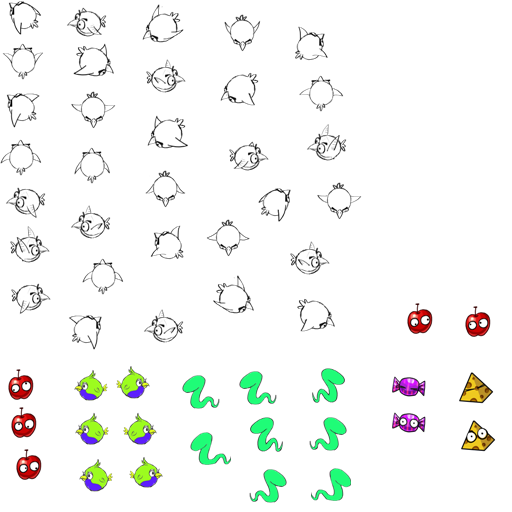
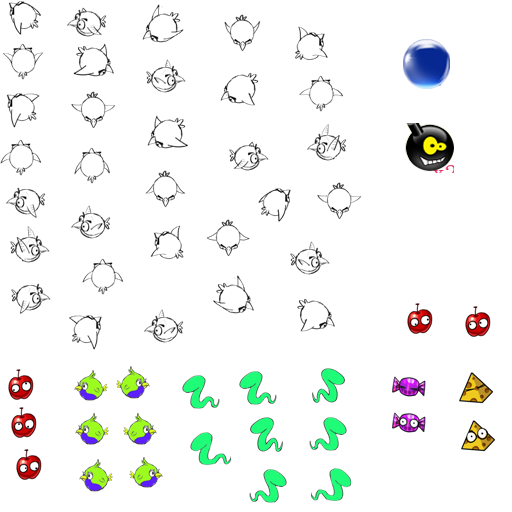
mix a bug about prop ball

Changed region(s): [[0.7812, 0.2188, 0.9062, 0.3438], [0.7812, 0.0625, 0.875, 0.1875]]

diff --git a/GreedFamily/GreedFamily/objects/CandyEntity.mm b/GreedFamily/GreedFamily/objects/CandyEntity.mm
@@ -116,7 +116,7 @@
     //同步壳的位置
     self.cover.position = self.sprite.position;
     
-    if (self.sprite.visible)
+    if (self.hitPoints != -1)
     {
         float mass = self.body->GetMass();  
         float density = 0;  
@@ -222,7 +222,10 @@
             {
                 self.cover.visible = YES;
             }
-            self.sprite.visible = YES;
+            else
+            {
+                self.sprite.visible = YES;
+            }
             self.body->SetTransform([Helper toMeters:appearPosition], 0);
             positionNew = CGPointMake(5 * CCRANDOM_0_1(), CCRANDOM_MINUS1_1()*5);
             enterForce = [Helper toMeters:positionNew];
@@ -237,7 +240,10 @@
             {
                 self.cover.visible = YES;
             }
-            self.sprite.visible = YES;
+            else
+            {
+                self.sprite.visible = YES;
+            }
             self.body->SetTransform([Helper toMeters:appearPosition], 0);
             positionNew = CGPointMake(CCRANDOM_MINUS1_1()*5, -5 * CCRANDOM_0_1());
             enterForce = [Helper toMeters:positionNew];
@@ -252,7 +258,10 @@
             {
                 self.cover.visible = YES;
             }
-            self.sprite.visible = YES;
+            else
+            {
+                self.sprite.visible = YES;
+            }
             self.body->SetTransform([Helper toMeters:appearPosition], 0);
             positionNew = CGPointMake(CCRANDOM_MINUS1_1()*2, -2 * CCRANDOM_0_1());
             enterForce = [Helper toMeters:positionNew];
@@ -267,7 +276,10 @@
             {
                 self.cover.visible = YES;
             }
-            self.sprite.visible = YES;
+            else
+            {
+                self.sprite.visible = YES;
+            }
             self.body->SetTransform([Helper toMeters:appearPosition], 0);
             positionNew = CGPointMake(CCRANDOM_MINUS1_1()*3, -3 * CCRANDOM_0_1());
             enterForce = [Helper toMeters:positionNew];
@@ -282,7 +294,10 @@
             {
                 self.cover.visible = YES;
             }
-            self.sprite.visible = YES;
+            else
+            {
+                self.sprite.visible = YES;
+            }
             self.body->SetTransform([Helper toMeters:appearPosition], 0);
             positionNew = CGPointMake(-3 * CCRANDOM_0_1(), CCRANDOM_MINUS1_1()*3);
             enterForce = [Helper toMeters:positionNew];
@@ -317,9 +332,19 @@
         self.cover.scaleY=(35)/[self.cover contentSize].height;
         self.cover.visible = NO;
         [batch addChild:self.cover z:2]; 
-
+        self.sprite.position = candyParamDef.startPos;
         
-        hitPoints = candyParamDef.initialHitPoints;
+        self.candyType = candyParamDef.ballType;
+        
+        if (initialHitPoints == 2)
+        {
+            self.cover.position = self.sprite.position;
+            self.cover.visible = YES;
+            self.sprite.visible = NO;
+        }
+        
+        //初始化为-1，spawn会赋值
+        hitPoints = -1;
         initialHitPoints = candyParamDef.initialHitPoints;
         
 
@@ -357,14 +382,7 @@
         [super createBodyInWorld:world 
                          bodyDef:&bodyDef 
                       fixtureDef:&fixtureDef]; 
-        self.sprite.position = candyParamDef.startPos;
-        self.candyType = candyParamDef.ballType;
-        
-        if (initialHitPoints == 2)
-        {
-            self.cover.position = self.sprite.position;
-            self.cover.visible = YES;
-        }
+
 
         
         [self scheduleUpdate];

diff --git a/GreedFamily/GreedFamily/PropertyEntity.mm b/GreedFamily/GreedFamily/PropertyEntity.mm
@@ -171,7 +171,7 @@ static CCArray* spawnFrequency;
     propertyParamDef.startPos = CGPointMake(-200, -200);/*random?*/
     propertyParamDef.isDynamicBody = YES;
     propertyParamDef.ballType = PropTypeCrystalBall;
-    propertyParamDef.spriteFrameName = @"pic_4.png";
+    propertyParamDef.spriteFrameName = @"crystallball.png";
     propertyParamDef.density = 0.5;
     propertyParamDef.restitution = 1.5;
     propertyParamDef.linearDamping = 0.2;
@@ -205,7 +205,7 @@ static CCArray* spawnFrequency;
     propertyParamDef.startPos = CGPointMake(-100, -200);/*random?*/
     propertyParamDef.isDynamicBody = YES;
     propertyParamDef.ballType = PropTypeBlackBomb;
-    propertyParamDef.spriteFrameName = @"pic_1.png";
+    propertyParamDef.spriteFrameName = @"blackbomb.png";
     propertyParamDef.density = 0.7;
     propertyParamDef.restitution = 0.7;
     propertyParamDef.linearDamping = 0.2;
@@ -241,11 +241,15 @@ static CCArray* spawnFrequency;
     {
         [self initPropertyMove:propertyType];
         
-        CCSpriteBatchNode* batch = [[GameBackgroundLayer sharedGameBackgroundLayer] getSpriteBatch];
+        CCSpriteBatchNode* batch = [[GameBackgroundLayer sharedGameBackgroundLayer] getAnimationBatch];
         self.sprite = [CCSprite spriteWithSpriteFrameName:propertyParamDef.spriteFrameName];
+        //按照像素设定图片大小
+        self.sprite.scaleX=(35)/[self.sprite contentSize].width; //按照像素定制图片宽高
+        self.sprite.scaleY=(35)/[self.sprite contentSize].height;
         [batch addChild:self.sprite];       
         
-        hitPoints = propertyParamDef.initialHitPoints;
+        //初始化为－1
+        hitPoints = -1;
         initialHitPoints = propertyParamDef.initialHitPoints;
         
         b2BodyDef bodyDef;
@@ -260,7 +264,7 @@ static CCArray* spawnFrequency;
         bodyDef.linearDamping = propertyParamDef.linearDamping;
         
         b2CircleShape circleShape;
-        float radiusInMeters = (self.sprite.contentSize.width / PTM_RATIO) * 0.5f;
+        float radiusInMeters = (self.sprite.contentSize.width * self.sprite.scaleX/ PTM_RATIO) * 0.5f;
         circleShape.m_radius = radiusInMeters;
         
         // Define the dynamic body fixture.

diff --git a/GreedFamily/GreedFamily/en.lproj/BodyObjectsLayer.mm b/GreedFamily/GreedFamily/en.lproj/BodyObjectsLayer.mm
@@ -183,7 +183,7 @@ static BodyObjectsLayer *instanceOfBodyObjectsLayer;
 	for (b2Body* body = self.world->GetBodyList(); body != nil; body = body->GetNext())
 	{
 		Entity* bodyNode = (Entity *)body->GetUserData();
-		if (bodyNode != NULL && bodyNode.sprite != nil && YES == bodyNode.sprite.visible)
+		if (bodyNode != NULL && bodyNode.sprite != nil && -1 < bodyNode.hitPoints)
 		{
 			bodyNode.sprite.position = [Helper toPixels:body->GetPosition()];
 			float angle = body->GetAngle();
@@ -192,10 +192,11 @@ static BodyObjectsLayer *instanceOfBodyObjectsLayer;
             if ([bodyNode isKindOfClass:[CandyEntity class]] && 1 == bodyNode.hitPoints)
             {
                 CandyEntity* candyNode = (CandyEntity*)bodyNode;
+                candyNode.sprite.visible = YES;
                 candyNode.cover.visible = NO;
             }
             
-            if (bodyNode.hitPoints <= 0)
+            if (bodyNode.hitPoints == 0)
             {
                 if([bodyNode isKindOfClass:[FlyEntity class]])
                 {
@@ -236,6 +237,7 @@ static BodyObjectsLayer *instanceOfBodyObjectsLayer;
                     CGPoint positionNew = CGPointMake(-100, -100);
                     bodyNode.body->SetTransform([Helper toMeters:positionNew], 0);
                     bodyNode.sprite.visible = NO;
+                    bodyNode.hitPoints = -1;
                     CandyCache* candyCache = (CandyCache *)[self getChildByTag:CandyCacheTag];
                     if (candyCache != NULL)
                     {
@@ -259,6 +261,7 @@ static BodyObjectsLayer *instanceOfBodyObjectsLayer;
                     CGPoint positionNew = CGPointMake(-100, -100);
                     bodyNode.body->SetTransform([Helper toMeters:positionNew], 0);
                     bodyNode.sprite.visible = NO;
+                    bodyNode.hitPoints = -1;
                     CandyCache* candyCache = (CandyCache *)[self getChildByTag:CandyCacheTag];
                     if (candyCache != NULL)
                     {

diff --git a/GreedFamily/GreedFamily/screens/GameMainScene.mm b/GreedFamily/GreedFamily/screens/GameMainScene.mm
@@ -315,7 +315,7 @@ static GameMainScene *instanceOfMainScene;
             _mainscenParam.invisibaleNum = 4;
             break;
         case TargetScene20thScene:
-            _mainscenParam.maxVisibaleNum = 10;
+            _mainscenParam.maxVisibaleNum = 7;
             _mainscenParam.candyCount = 50;
             _mainscenParam.candyType = 3;
             _mainscenParam.candyFrequency = 5;

diff --git a/GreedFamily/GreedFamily/LandCandyEntity.mm b/GreedFamily/GreedFamily/LandCandyEntity.mm
@@ -46,10 +46,10 @@
             spriteName=@"candy-_1.png";
             break;
         case 3:
-            spriteName=@"pic_4.png";
+            spriteName=@"crystallball.png";
             break;
         case 4:
-            spriteName=@"pic_1.png";
+            spriteName=@"blackbomb.png";
             break;
         case 5:
             spriteName=@"pic_6.png";

diff --git a/GreedFamily/GreedFamily/objects/CandyCache.mm b/GreedFamily/GreedFamily/objects/CandyCache.mm
@@ -140,7 +140,7 @@
 	CandyEntity* candy;
 	CCARRAY_FOREACH(candyOfType, candy)
     {
-        if (NO == candy.sprite.visible)
+        if (-1 == candy.hitPoints)
         {
             CCLOG(@"spawn candy type %i", candyType);
             int enterPosition = random() % 5;
